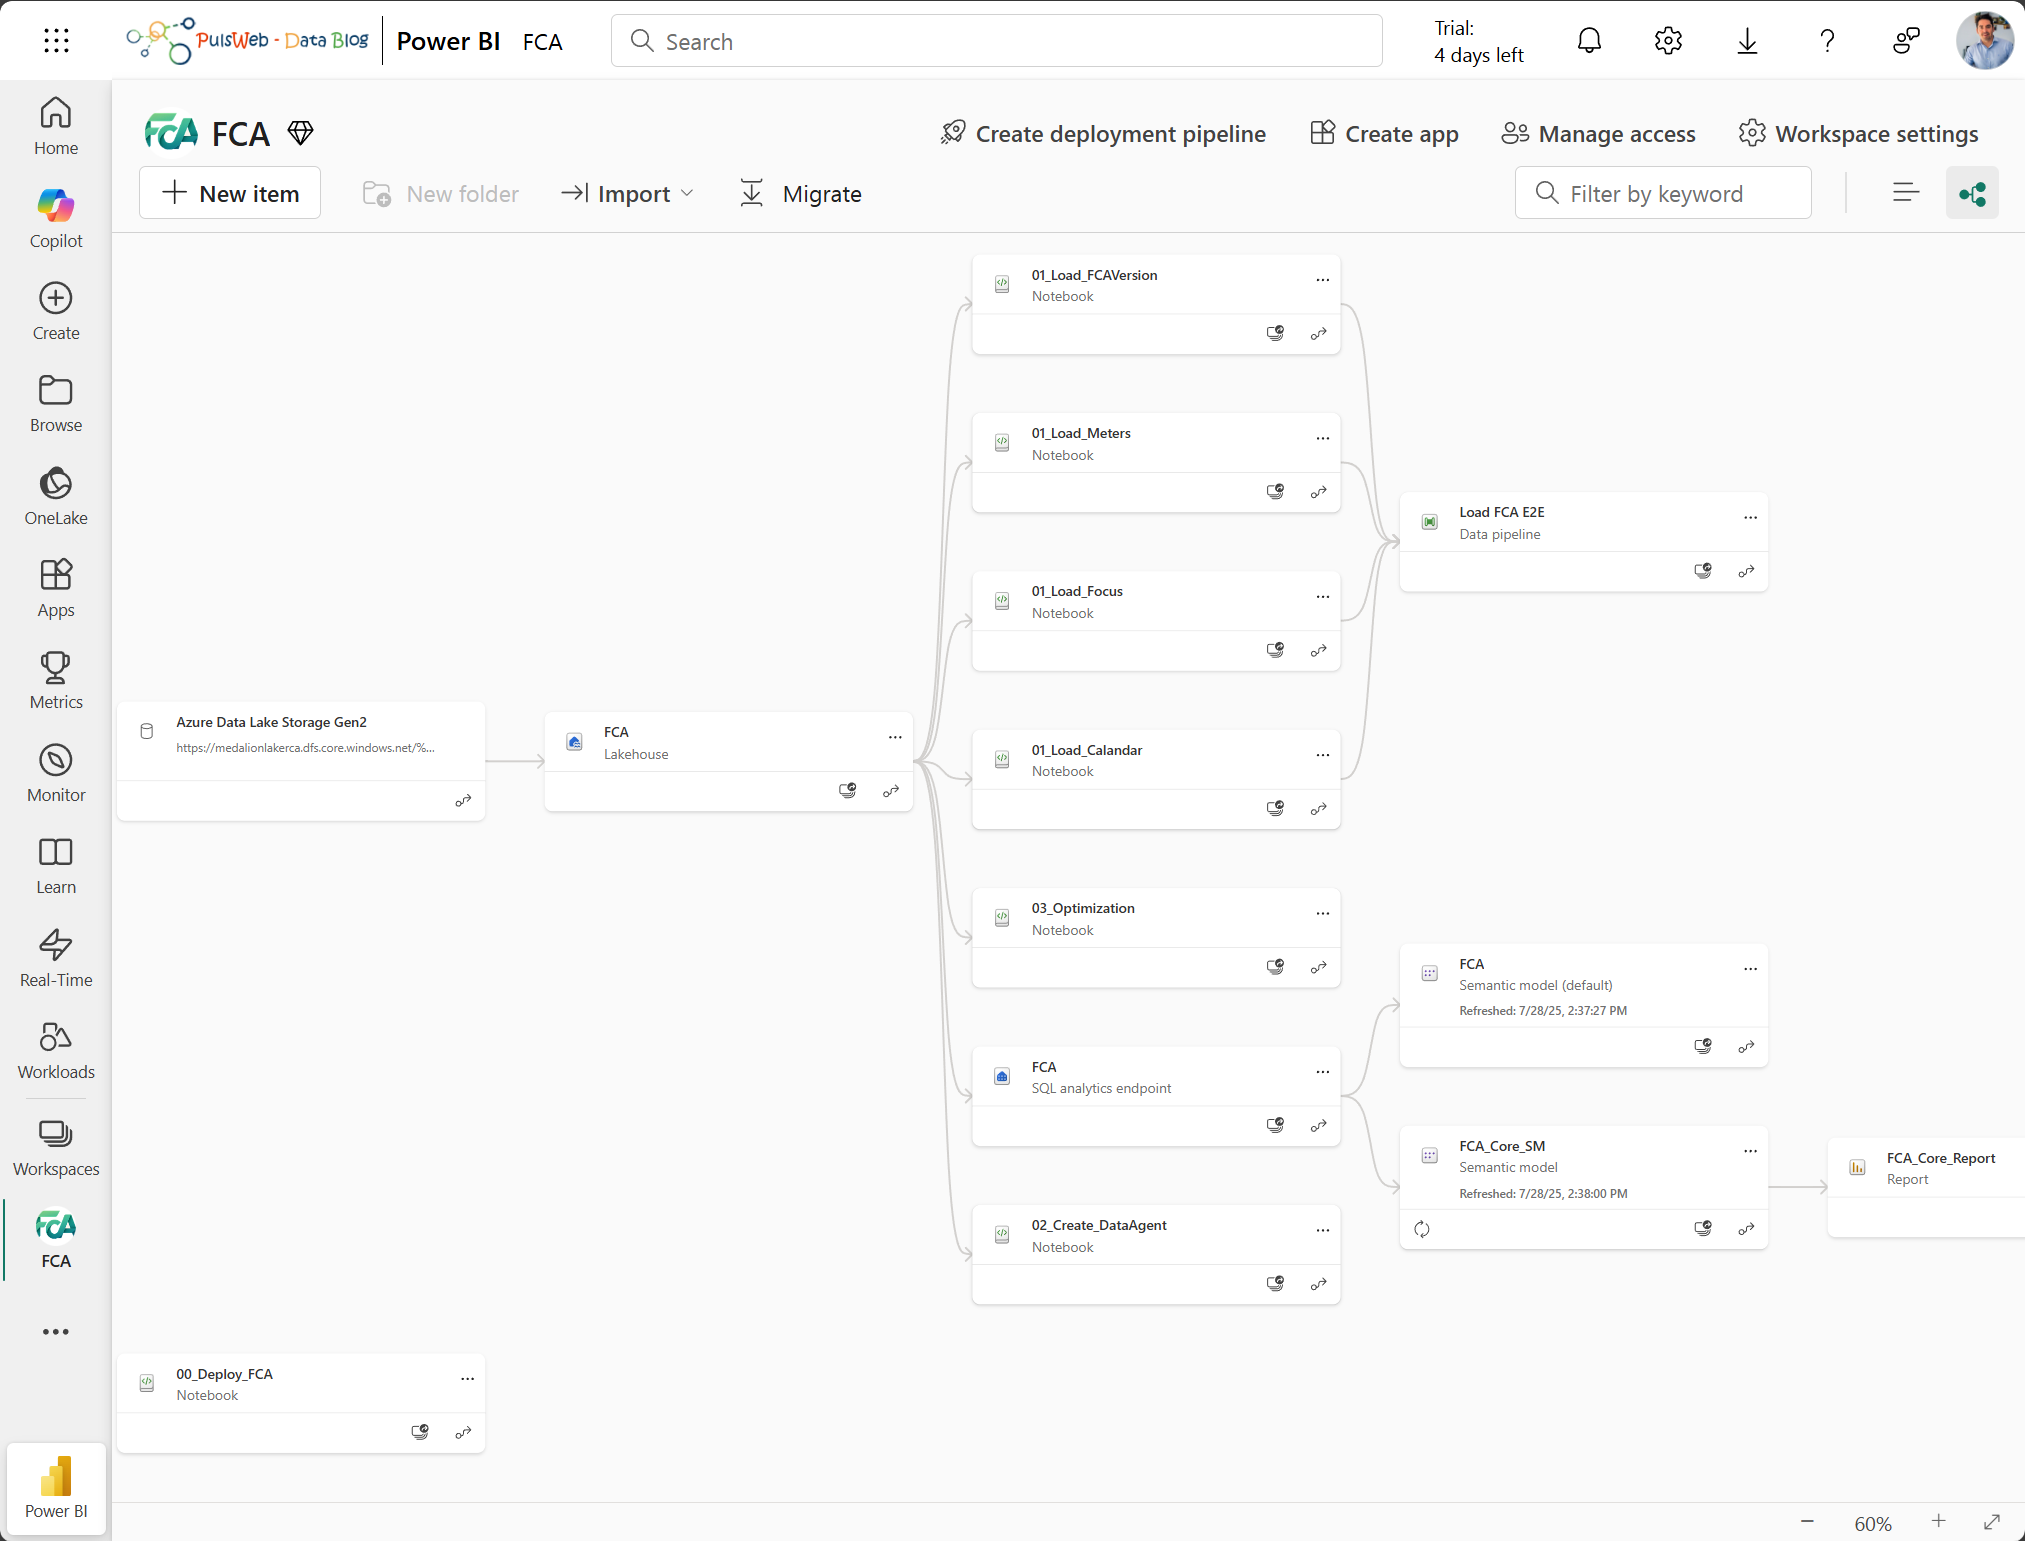
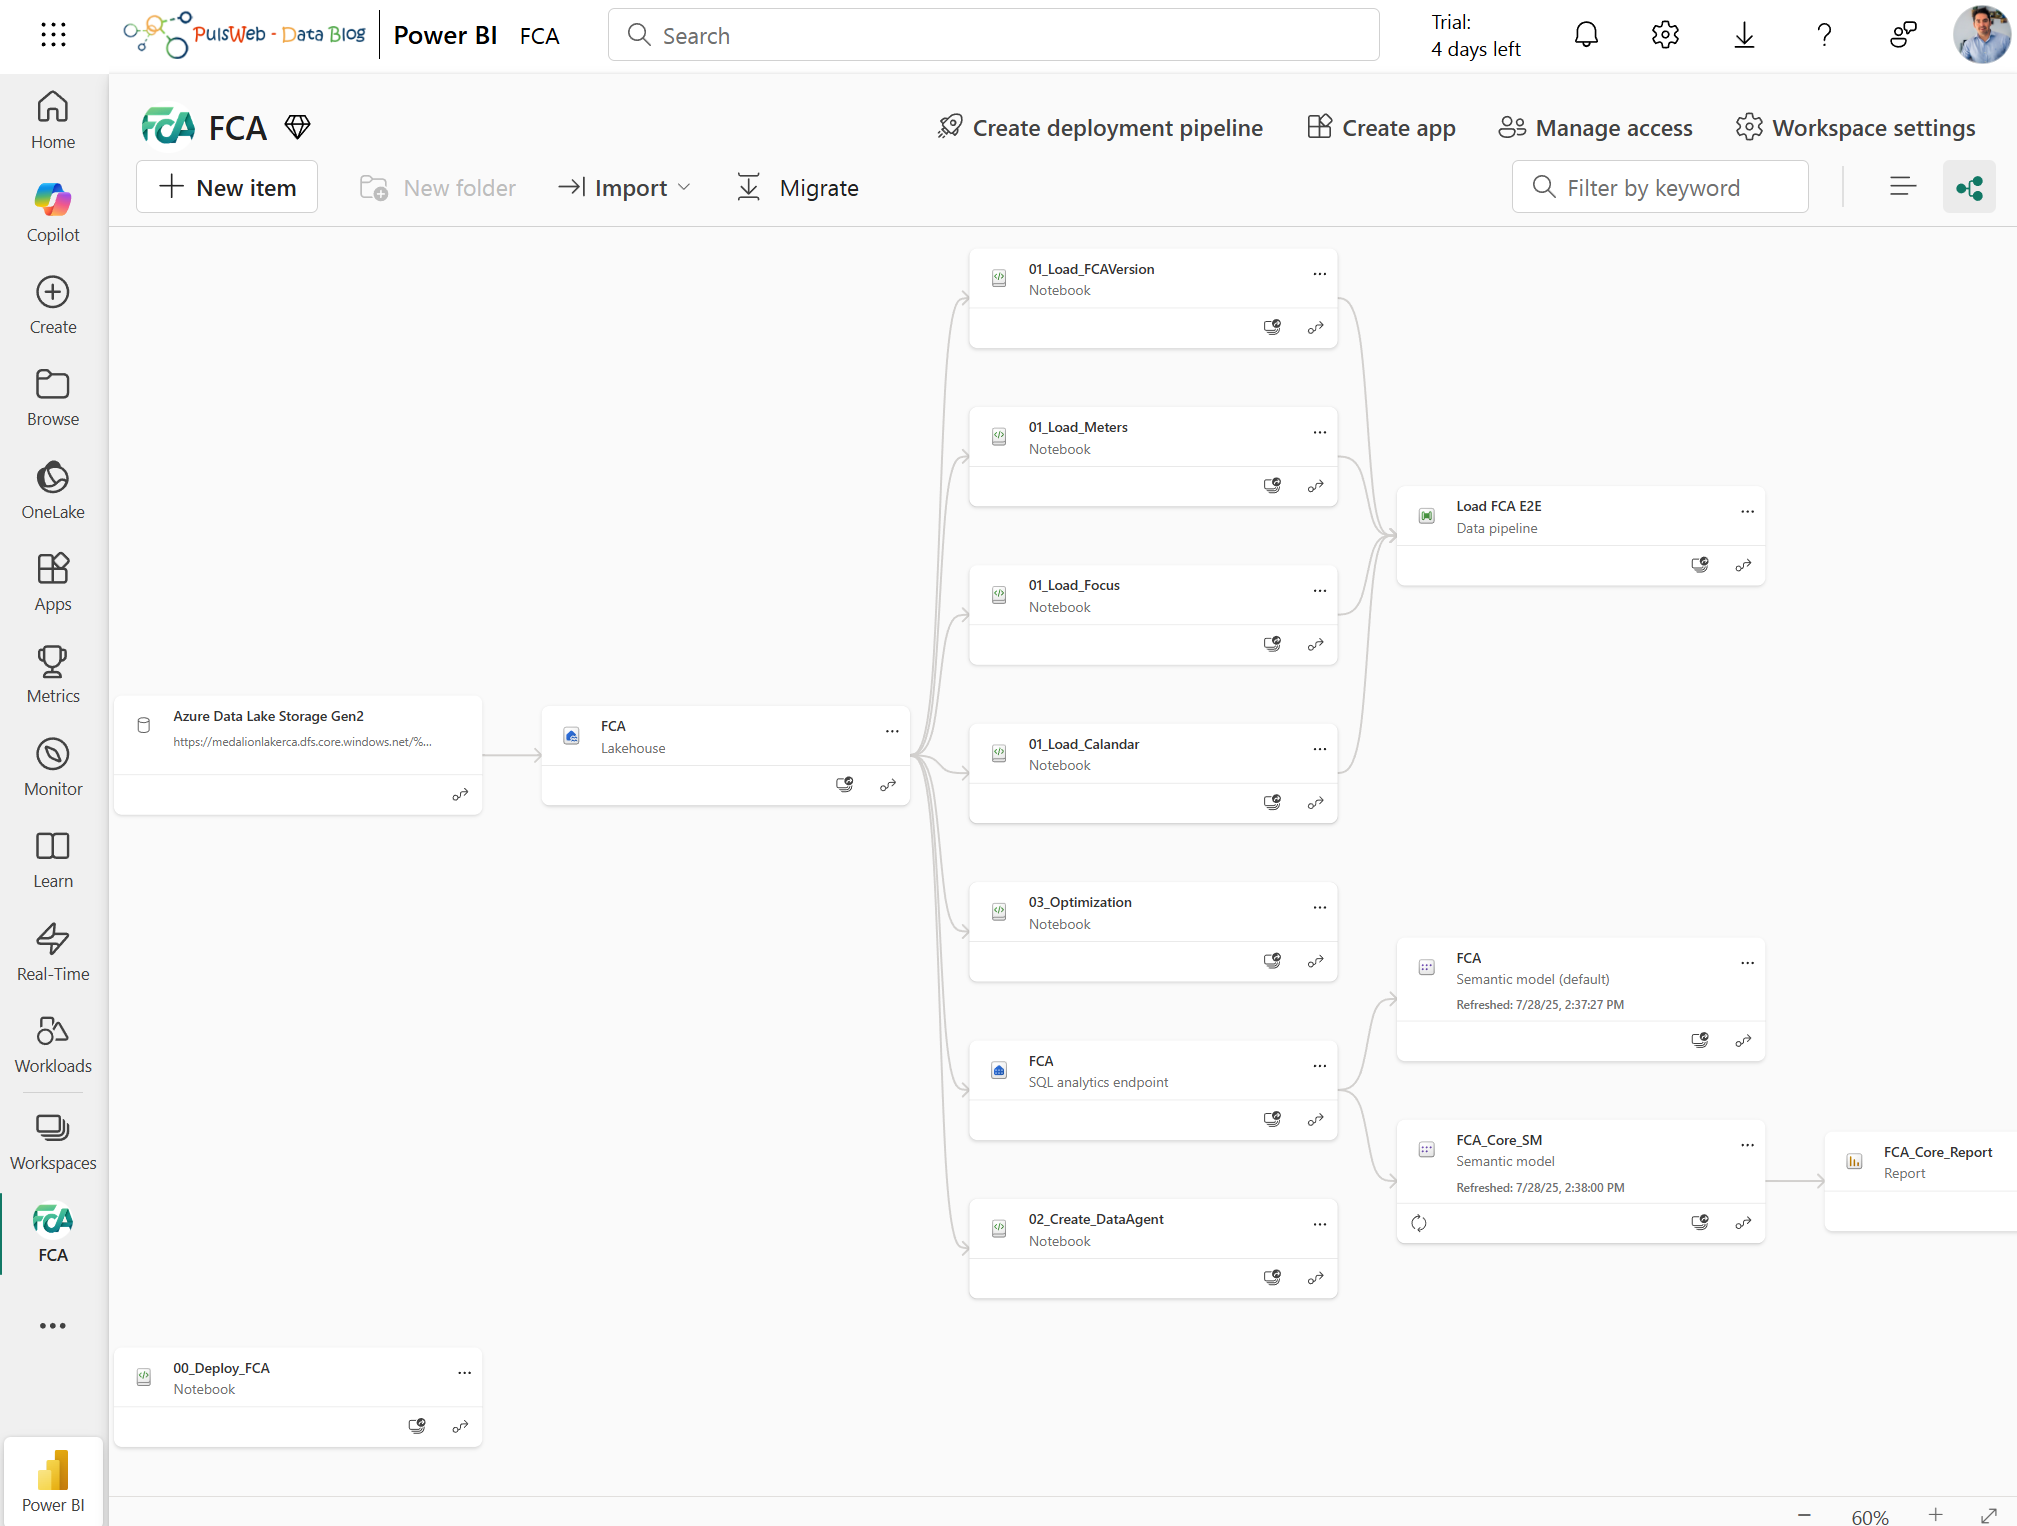
Setups Updates

diff --git a/README.md b/README.md
@@ -117,6 +117,9 @@ To create reservation export, on the Azure portal , search for **Cost Management
 - Download the ([Workspace logo](https://github.com/Pulsweb/FCA/blob/main/media/FCA%20Logo%20Small.png)) and add the logo to the workspace
 - Download and import the **[00_Deploy_FCA.ipynb](https://github.com/Pulsweb/FCA/blob/main/script/00_Deploy_FCA.ipynb)** Notebook into your FCA workspace ([Import existing notebooks](https://learn.microsoft.com/en-us/fabric/data-engineering/how-to-use-notebook#import-existing-notebooks))
 - Click "Run All" in the Notebook
+
+![FCA](./media/Setup-Export7.png)
+
 - Navigate to your FCA Workspace and refresh the browser to view the newly created artifacts
 
 ![FCA](./media/Setup-Export6.png)
